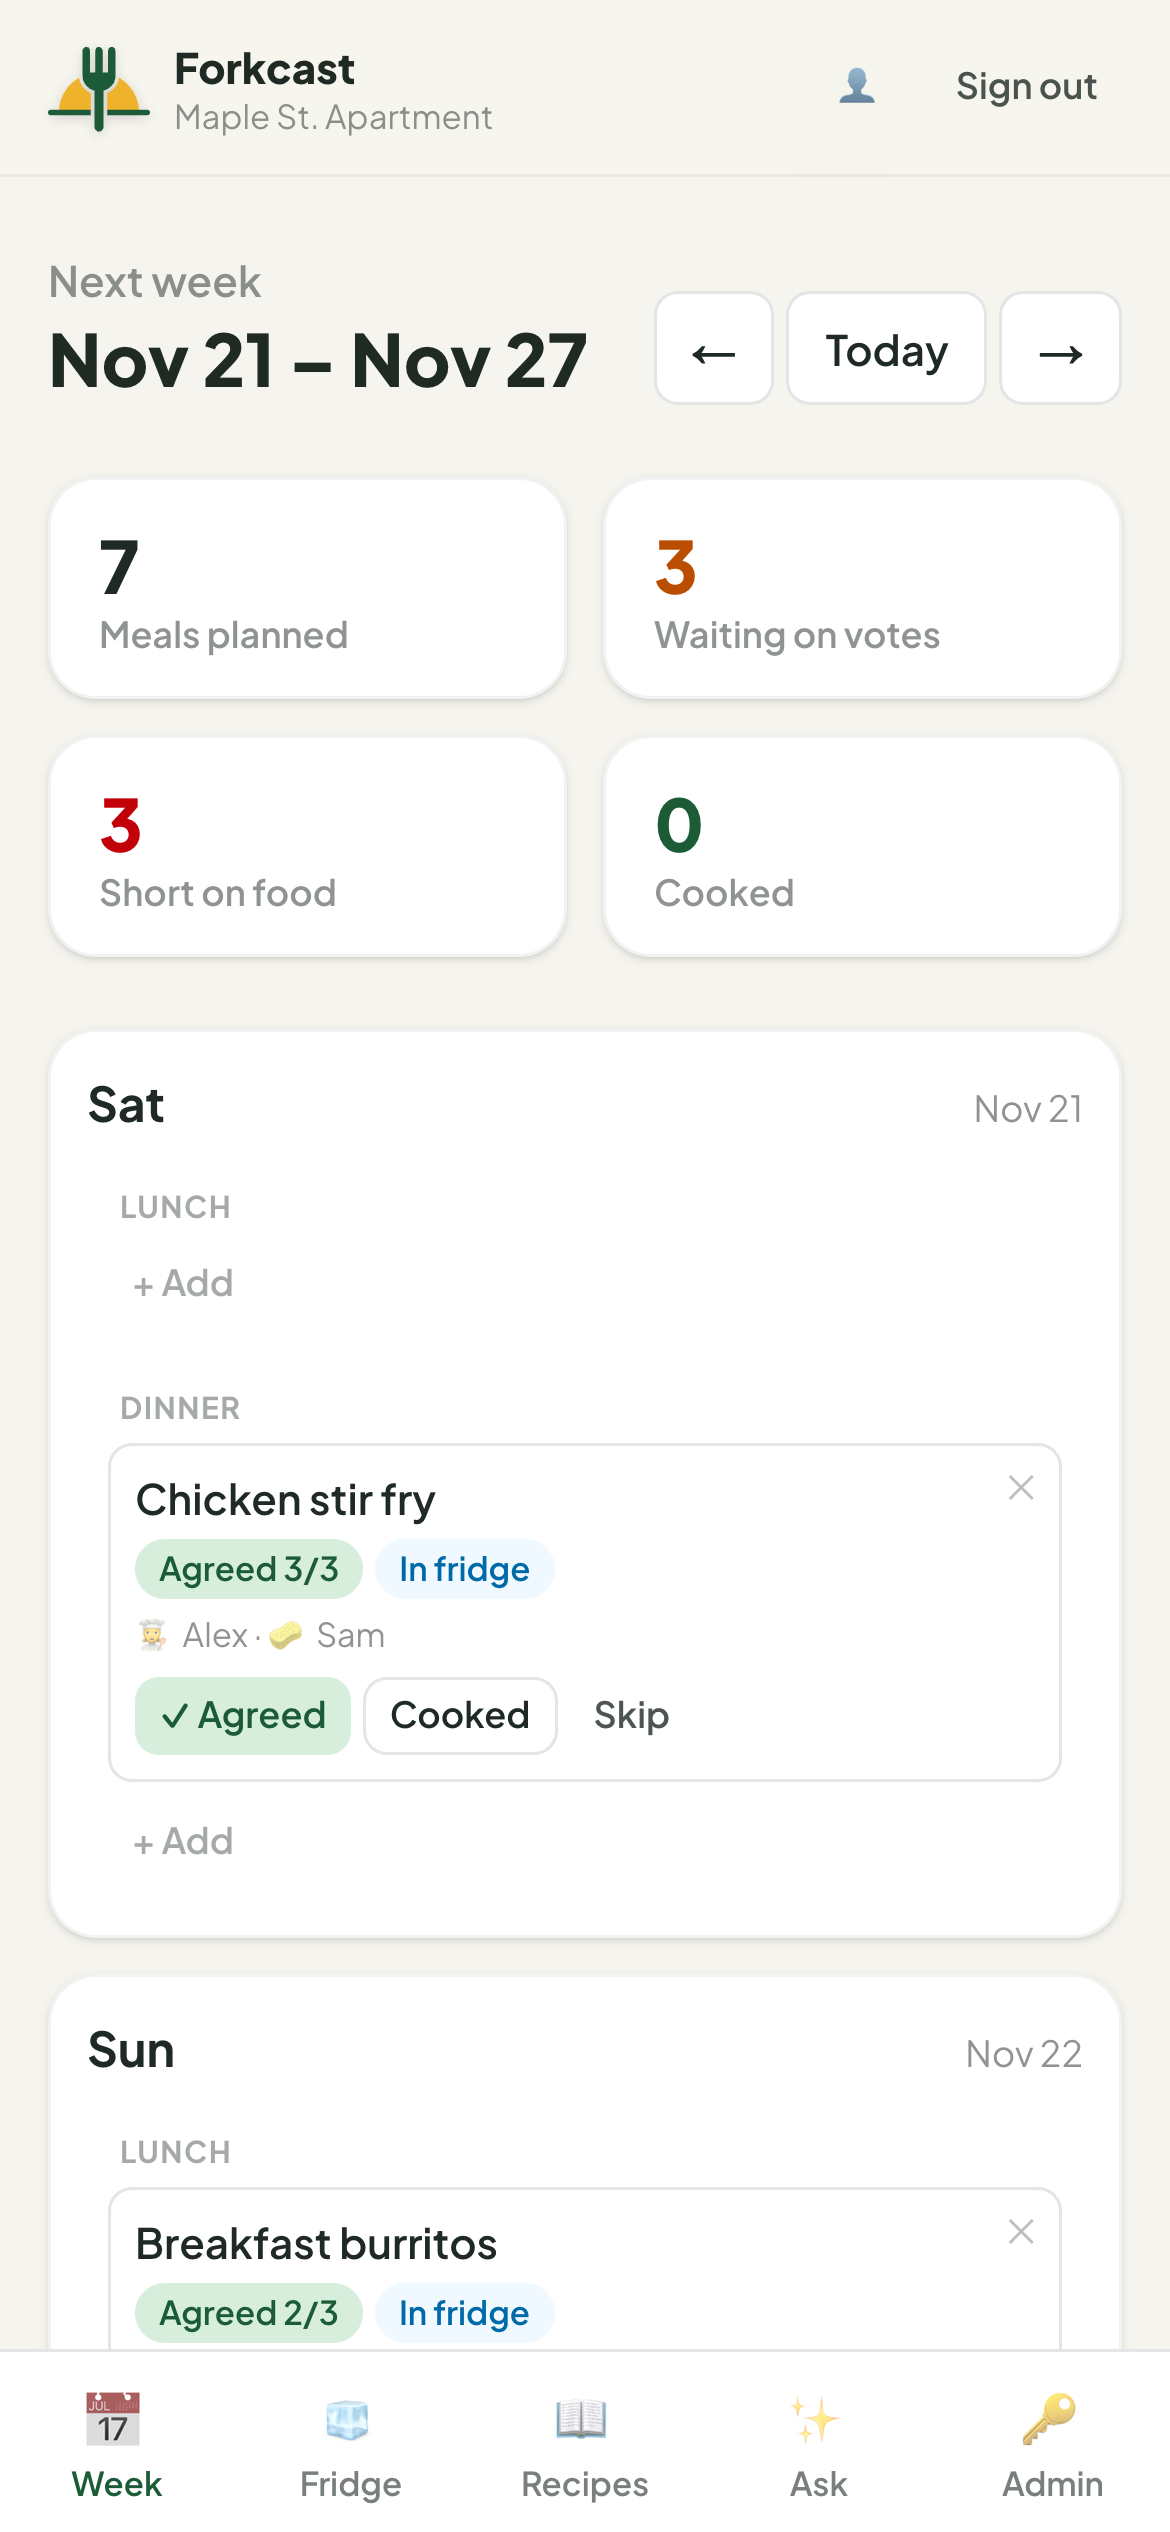
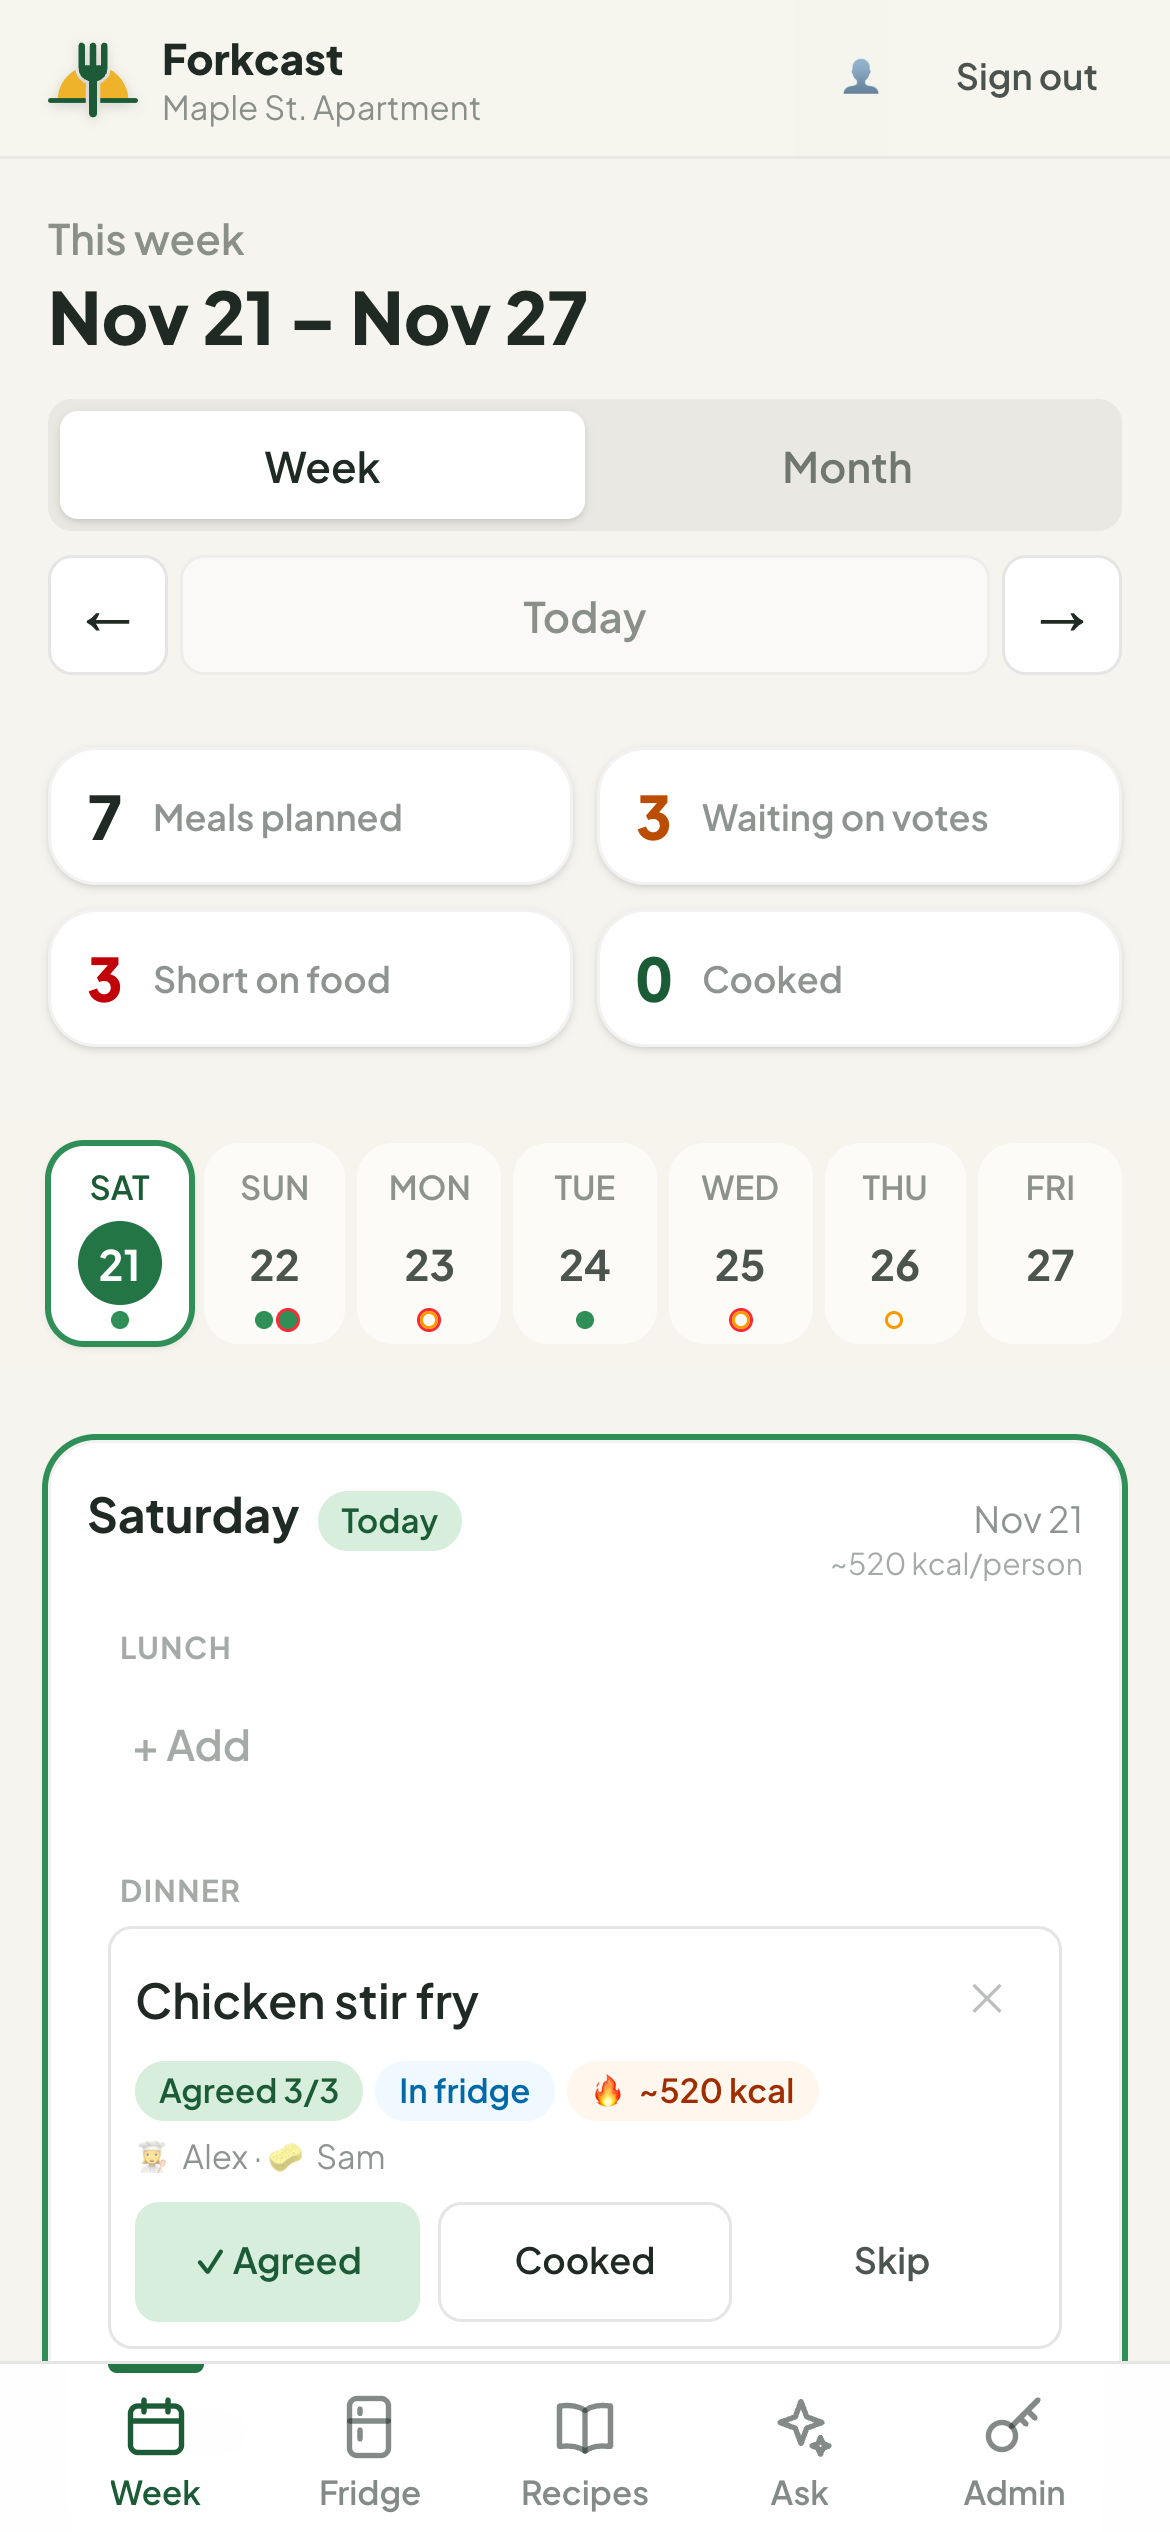
v0.8.1: refresh README with calories, calendar and phone screenshots
- New screenshots from the current app (demo household): week view with
  calorie chips and per-person day totals, the month calendar, the recipe
  library with calories, and the phone week + fridge layouts.
- README: calendar screenshot under planning, a "Calories, automatically"
  section, an expanded "Made for your phone" section with side-by-side
  phone screenshots, version badge 0.8.1.

diff --git a/README.md b/README.md
@@ -9,7 +9,7 @@
 
 **The free, self-hosted meal planner for people who share a fridge.**
 
-[![Version 0.7.0](https://img.shields.io/badge/version-0.7.0-2f855a)](CHANGELOG.md)
+[![Version 0.8.1](https://img.shields.io/badge/version-0.8.1-2f855a)](CHANGELOG.md)
 [![Next.js 16](https://img.shields.io/badge/Next.js-16-000000?logo=nextdotjs&logoColor=white)](https://nextjs.org)
 [![React 19](https://img.shields.io/badge/React-19-149eca?logo=react&logoColor=white)](https://react.dev)
 [![Deploy on Vercel](https://img.shields.io/badge/deploy%20on-Vercel-000000?logo=vercel&logoColor=white)](https://vercel.com/new)
@@ -27,7 +27,7 @@ split the cooking and the dishes fairly, and let the fridge keep track of itself
 
 Living with roommates usually means a group chat full of *"what are we eating?"*, three bags of rice nobody remembers buying, and finding out at 7 pm that someone used the last of the chicken. Forkcast turns your household's food into one shared plan: everyone proposes and votes on meals, the app checks the plan against the fridge day by day, and cooking a meal takes its ingredients out of the fridge for you. It runs on Vercel's free tier, with your data in your own private storage.
 
-![Forkcast's week planner: meals for each day with votes, "In fridge", "After shopping" and "Short" badges, and the cook and dishwasher for each meal](docs/screenshots/week.png)
+![Forkcast's week planner: meals for each day with votes, "In fridge", "After shopping" and "Short" badges, calories per serving, a per-person total for each day, and the cook and dishwasher for each meal](docs/screenshots/week.png)
 
 <p align="center"><sub>Screenshots use a made-up demo household.</sub></p>
 
@@ -42,6 +42,10 @@ Living with roommates usually means a group chat full of *"what are we eating?"*
 - **Repeat last week.** Liked last week? One click fills just the empty slots with the same meals.
 - **Week or month.** Flip to the calendar to see which days had meals planned or made, jump to any date, and click a day to open its week. The numbers at the top of the week (planned, waiting on votes, short on food, cooked) open the list of meals behind them.
 - **Your slots, your way.** Lunch, dinner, or any slots you like. Drag meals between days, skip them, or remove them from the plan.
+
+<p align="center">
+  <img src="docs/screenshots/calendar.png" alt="Month calendar: each day lists its meals, marked as made, agreed, proposed or short on food, with today highlighted" width="820">
+</p>
 
 ### 🧑🍳 Who cooks and who cleans
 
@@ -74,22 +78,12 @@ Living with roommates usually means a group chat full of *"what are we eating?"*
 - **Claude scan** decodes store abbreviations, works out amounts and skips non-food.
 - **Smart matching.** Both match items to your shopping list and to the food names you already use, and tick them off the list.
 - **You stay in charge.** Review every item before it's added; untick anything you don't want in the fridge.
-- **Made for the store.** A proper mobile layout with bottom navigation, for checking the fridge mid-aisle.
 
-<table>
-  <tr>
-    <td width="66%" valign="top"><img src="docs/screenshots/receipt.png" alt="Receipt scan review: matched items ready to add to the fridge, with paper towels unticked"></td>
-    <td width="34%" valign="top" align="center"><img src="docs/screenshots/mobile.png" alt="The week planner on a phone, with bottom navigation" width="260"></td>
-  </tr>
-  <tr>
-    <td align="center"><sub>Review a scan before anything is added</sub></td>
-    <td align="center"><sub>The week planner on a phone</sub></td>
-  </tr>
-</table>
+<p align="center">
+  <img src="docs/screenshots/receipt.png" alt="Receipt scan review: matched items ready to add to the fridge, with paper towels unticked" width="560">
+</p>
 
 ### 📖 Recipes
-
-- **Calories, automatically.** Saving a recipe gets a per-serving estimate (calories, protein, carbs, fat) from Claude in the background; library recipes have built-in estimates. Meals show ~kcal per serving and each day shows a rough per-person total.
 
 - **Your recipe box.** The household's own recipes, with a **Can make now** badge based on what's in the fridge.
 - **A built-in library.** 30 easy, healthy lunches and dinners (15–40 min), sorted by what you can make right now and filterable.
@@ -99,6 +93,13 @@ Living with roommates usually means a group chat full of *"what are we eating?"*
 <p align="center">
   <img src="docs/screenshots/library.png" alt="Built-in recipe library with filters and an 'Add to our recipes' button on each recipe" width="820">
 </p>
+
+### 🔥 Calories, automatically
+
+- **Estimated for you.** Save a recipe and Claude works out calories, protein, carbs and fat per serving in the background. Change the ingredients and it's redone.
+- **On every meal.** Meal cards show **~kcal per serving**, and each day shows a rough **per-person total**.
+- **No key needed for the library.** All 30 built-in recipes come with estimates, and Claude's meal ideas bring their own.
+- **Kept in check.** Automatic estimates are capped per household per day, and admins can fill in older recipes in one click.
 
 ### 📬 Evening reminders
 
@@ -122,8 +123,20 @@ Living with roommates usually means a group chat full of *"what are we eating?"*
 
 ### 📱 Made for your phone
 
-- **Phone-first layout.** One day at a time with a day picker, big tap targets, bottom navigation and bottom-sheet dialogs. No sideways scrolling and no zooming in when you type.
+- **One day at a time.** A day picker with a dot for each meal; tap a day or swipe to switch.
+- **Built for thumbs.** Big tap targets, bottom navigation, bottom-sheet dialogs, and no sideways scrolling or zooming in when you type. Check the fridge mid-aisle.
 - **Add to Home Screen.** Open Forkcast in Safari or Chrome and choose *Add to Home Screen*: it gets its own icon and opens full screen like an app.
+
+<table>
+  <tr>
+    <td align="center"><img src="docs/screenshots/mobile.png" alt="The week planner on a phone: day picker, today's meals with calories, and bottom navigation" width="260"></td>
+    <td align="center"><img src="docs/screenshots/mobile-fridge.png" alt="The fridge and shopping page on a phone" width="260"></td>
+  </tr>
+  <tr>
+    <td align="center"><sub>The week, one day at a time</sub></td>
+    <td align="center"><sub>Fridge and shopping in the store</sub></td>
+  </tr>
+</table>
 
 ## How it works
 

diff --git a/CHANGELOG.md b/CHANGELOG.md
@@ -2,6 +2,9 @@
 
 Every change bumps the version: fixes bump the patch number, features bump the minor number.
 
+## 0.8.1
+- README refreshed with new screenshots: calorie chips, the month calendar, and the phone layout.
+
 ## 0.8.0
 - **Made for phones.** Every page is tuned for a phone browser: bigger tap targets, no sideways scrolling, bottom-sheet dialogs, no zoom-in when typing, and room for the iPhone home bar. The week planner shows one day at a time on a phone with a day picker.
 - **Add to Home Screen:** Forkcast can be installed like an app (icon, full-screen, theme colour).
